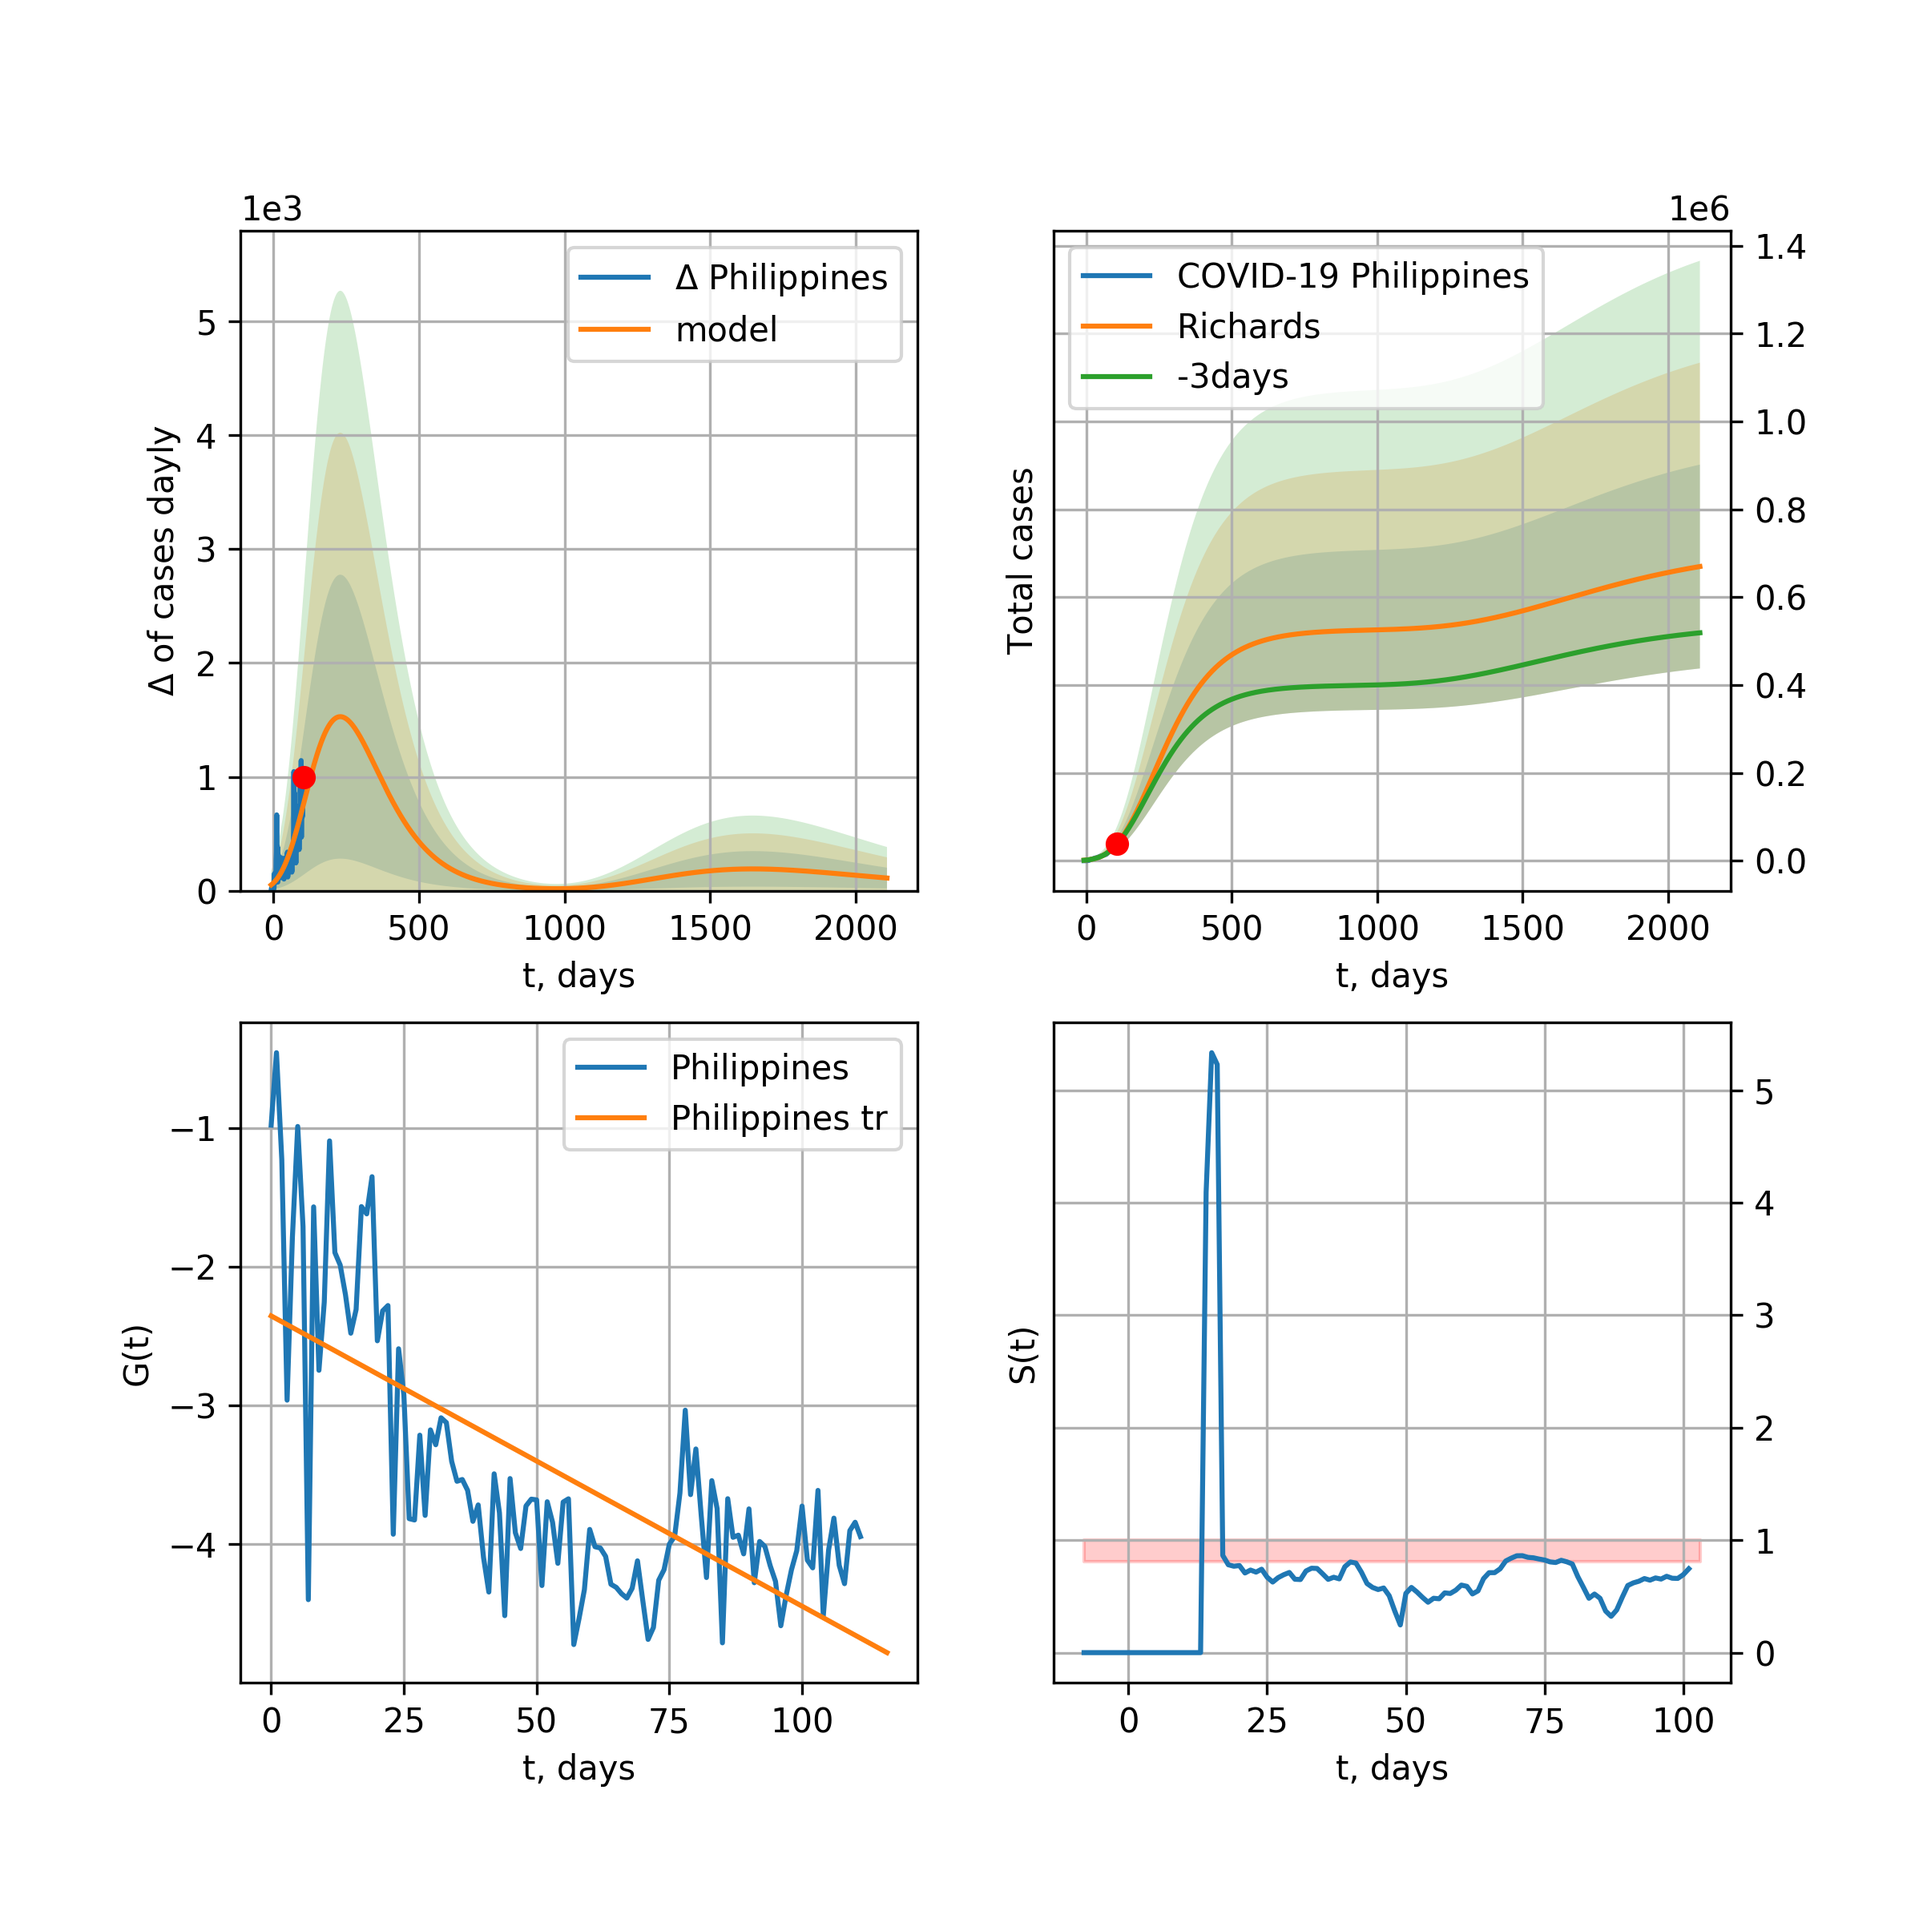
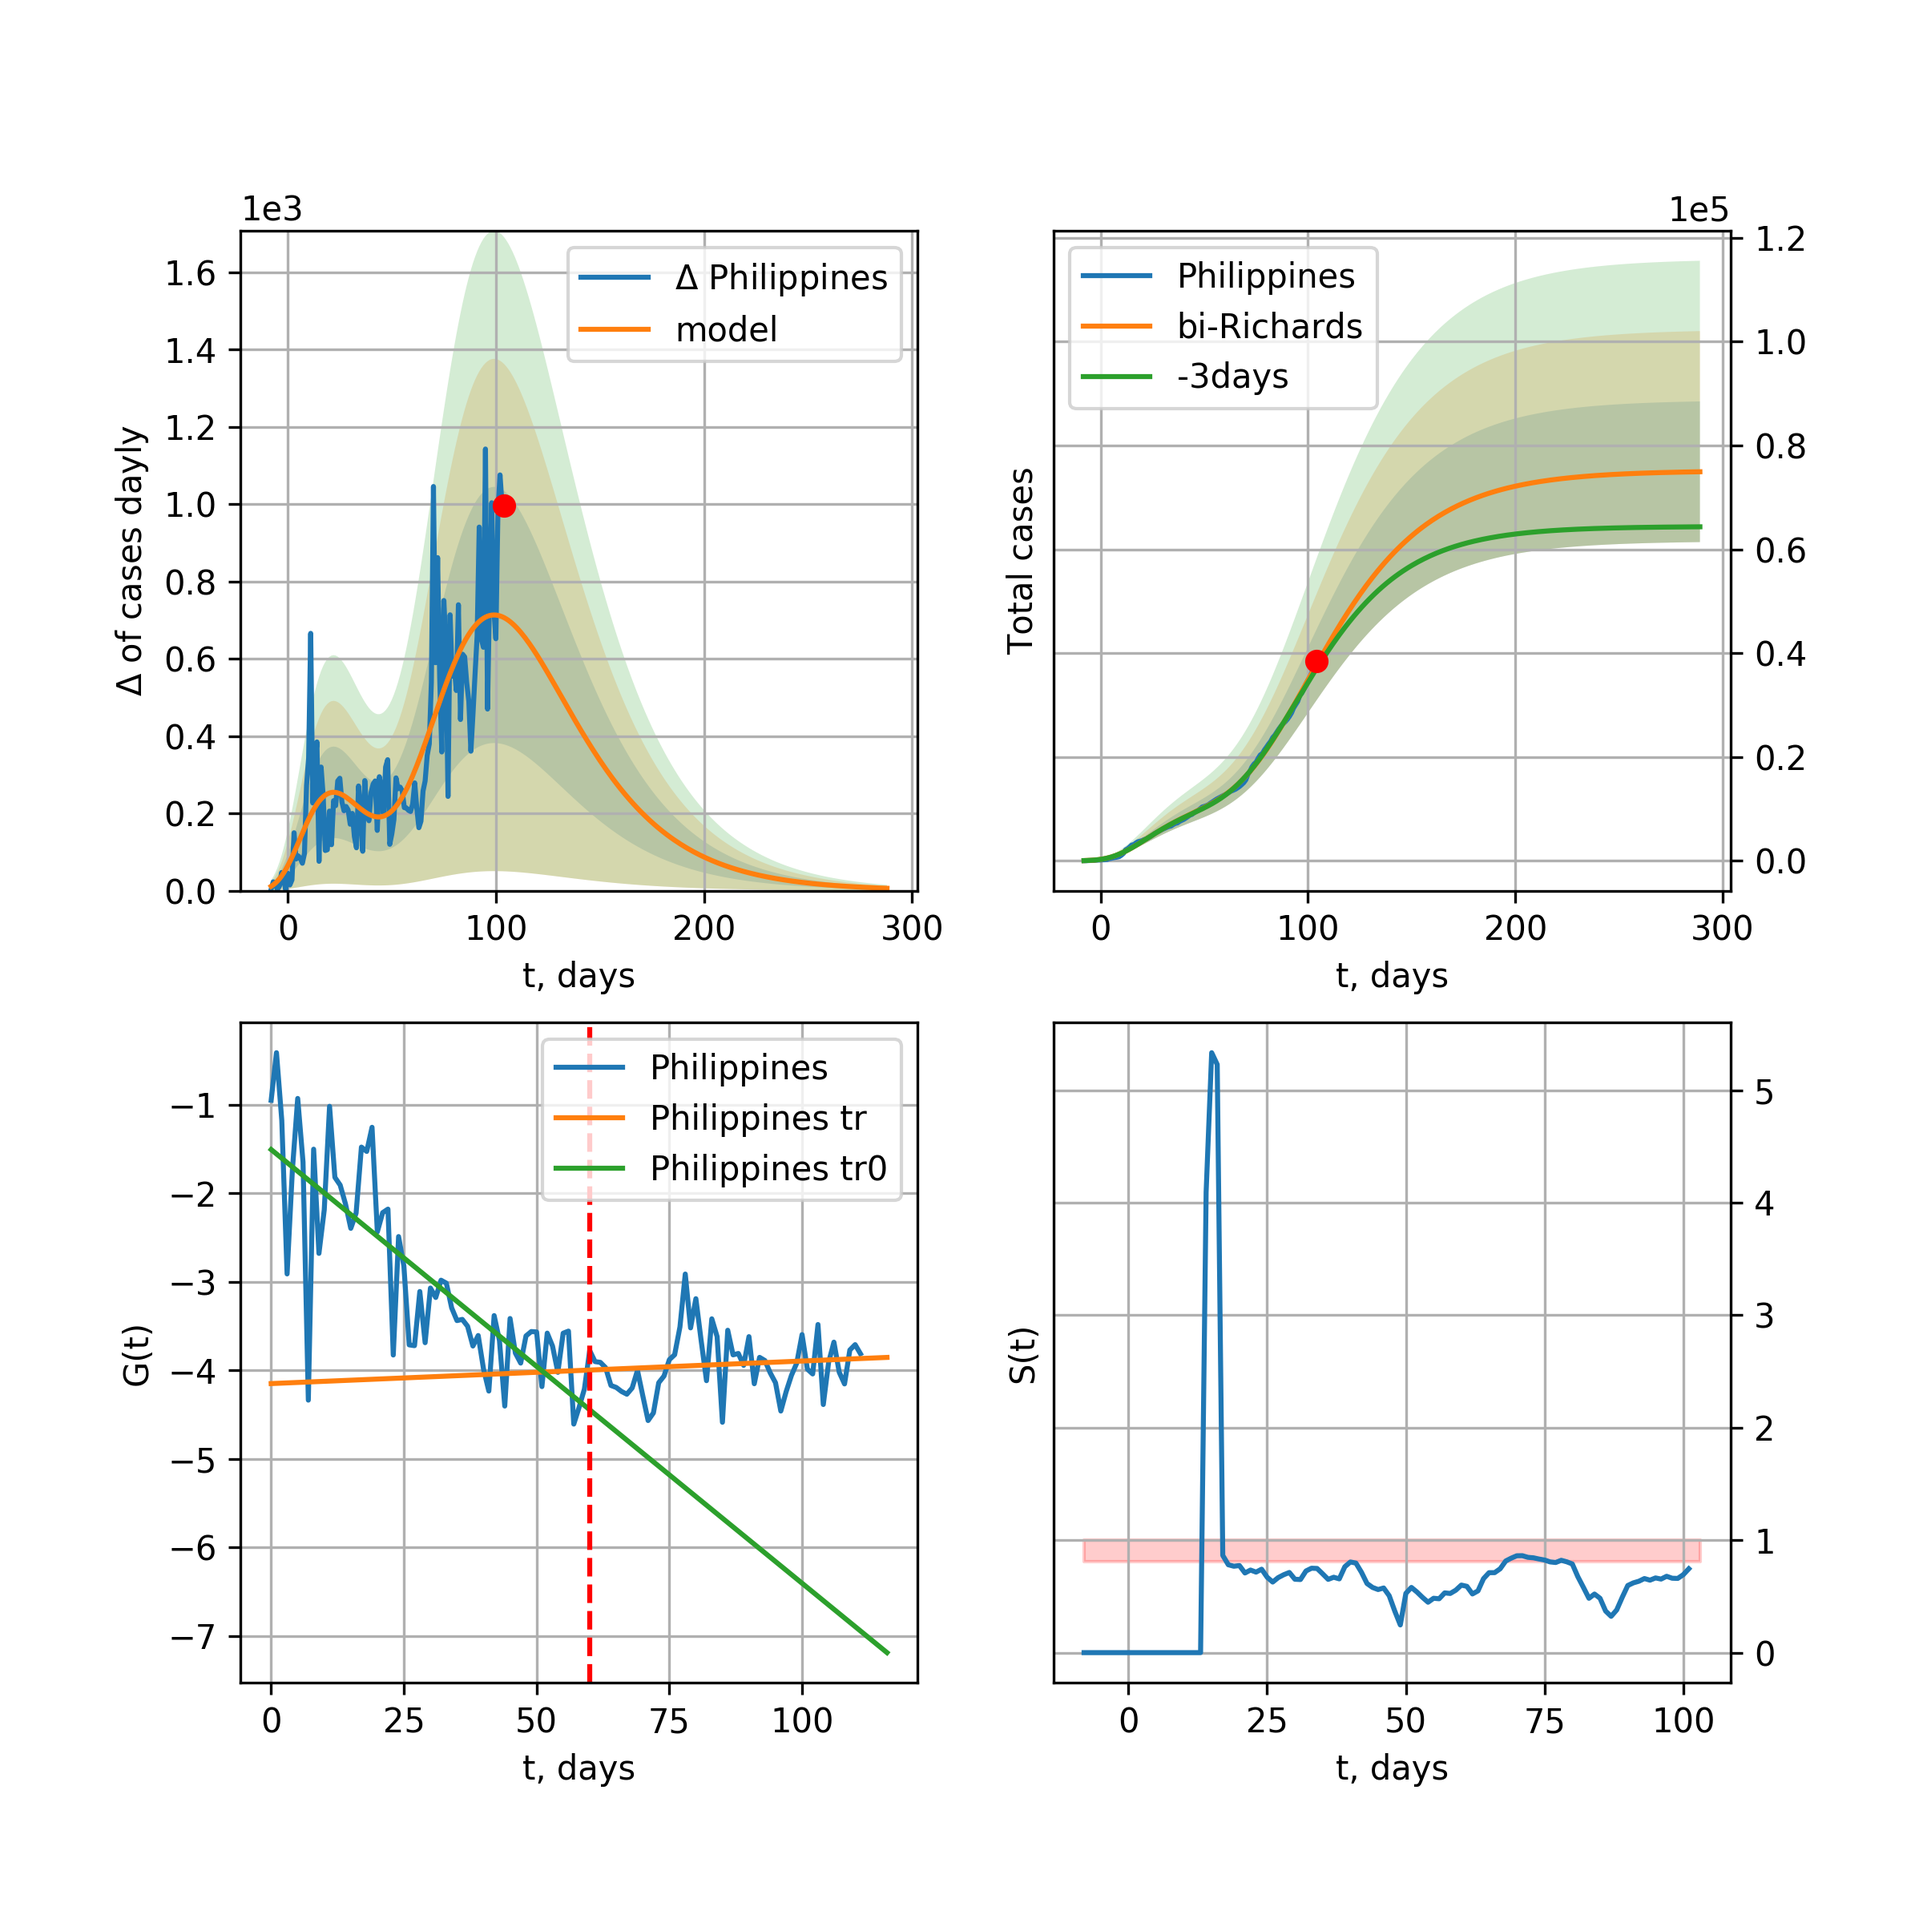
PH renew 2020-06-30

diff --git a/_site/index.html b/_site/index.html
@@ -1047,18 +1047,20 @@ trend coefficient of determination: 0.007109 <br />
     <img src="pictures/covidcasesPhilippines36_R.png" alt="hi" class="inline"/><br /> 
 
       Philippines data at: 2020-07-01<br />
-+3 day model MAPE: 0.013912<br />
-model: Richards<br />
-coeffs: [ 5.26187566e+05  2.91161839e-01 -2.19007747e+02  2.74899197e-02]<br />
-S.Korea scenario coeffs: [0.36242246, 2.56241634, 1.84890887, 0.13324732]<br />
-rational stdev: 0.346457<br />
-forecast at the end of period: +2005 days<br />
-	 deltaDaycases: 111<br />
-	 total cases: 669841 ± 232071<br />
-	 total death: 22089 ± 22958<br />
-trend coefficient of determination: 0.502403 <br />
- intercept: -2.353975 <br />
- slope: -0.020920<br />
++3 day model MAPE: 0.020886<br />
+model: bi-Richards<br />
+coeffs: [ 6.36309083e+04  2.00813751e+00 -3.73720782e+01  1.51586588e-02]<br />
+rational stdev: 0.180822<br />
+forecast at the end of period: +185 days<br />
+	 deltaDaycases: 6<br />
+	 total cases: 74929 ± 13548<br />
+	 total death: 2471 ± 1340<br />
+bi-Richards approximation splitting point: 60<br />
+trend coefficient of determination: 0.655535 <br />
+ intercept: -1.508132 <br />
+ slope: -0.048975<br />trend coefficient of determination: 0.013358 <br />
+ intercept: -4.150813 <br />
+ slope: 0.002547<br />
           <br /> 
     
     Norway
